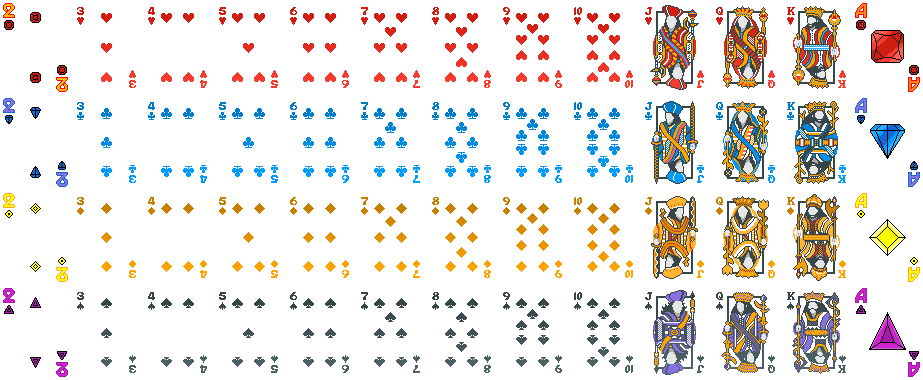
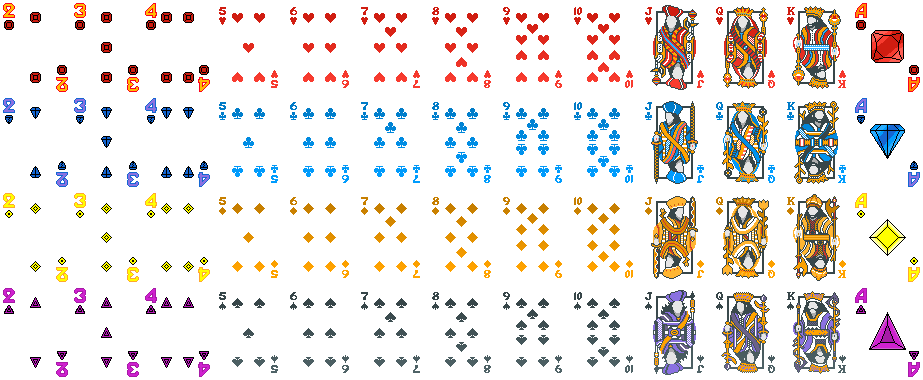
Added 3s and 4s, updated README

diff --git a/README.md b/README.md
@@ -3,12 +3,11 @@ Bejeweled-themed deck skin for Balatro
 
 ![alt text](https://i.imgur.com/wWLyEeG.png)
 
-> [!IMPORTANT]
-> As for now, the aces and the ~~wees~~ 2s of each suit have been made, i'll start making the numbered cards when i have some spare time.
-> You can test it if you want but it's far from being done.
+> [!NOTE]
+> This pack is a WIP (Work In Progress), you can check the progress by clicking **[here](#progress)**, if you want to test it however, see the instructions below.
 
 ## How to ~~install~~ test Balajeweled
-0. Install [Lovely Injector](https://github.com/ethangreen-dev/lovely-injector) and [Steamodded 1.0.0-ALPHA](https://github.com/Steamodded/smods/archive/refs/heads/main.zip) **_(Your AV may freak out after downloading Lovely, don't fret, Lovely is completely safe to download, you'll have to whitelist Lovely in your AV)_**
+0. Install [Lovely Injector 0.6](https://github.com/ethangreen-dev/lovely-injector/releases/tag/v0.6.0) and [Steamodded 1.0.0-ALPHA](https://github.com/Steamodded/smods/archive/refs/heads/main.zip) **_(Your AV may freak out after downloading Lovely, don't fret, Lovely is completely safe to download, you'll have to whitelist Lovely in your AV)_**
 1. Download the zip file of this repo by clicking on "Code" then "Download ZIP" (A release version will be made after i'm finished with the number cards).
 2. Extract the contents of the zip in a folder called "Balajeweled" in your Balatro mods folder.
 3. Upon entering the game, go to "Options" and "Customize deck", set all suits to "Balajeweled"
@@ -17,8 +16,8 @@ Bejeweled-themed deck skin for Balatro
 ## Progress
 - [x] Ace
 - [x] 2
-- [ ] 3
-- [ ] 4
+- [x] 3
+- [x] 4
 - [ ] 5
 - [ ] 6
 - [ ] 7
